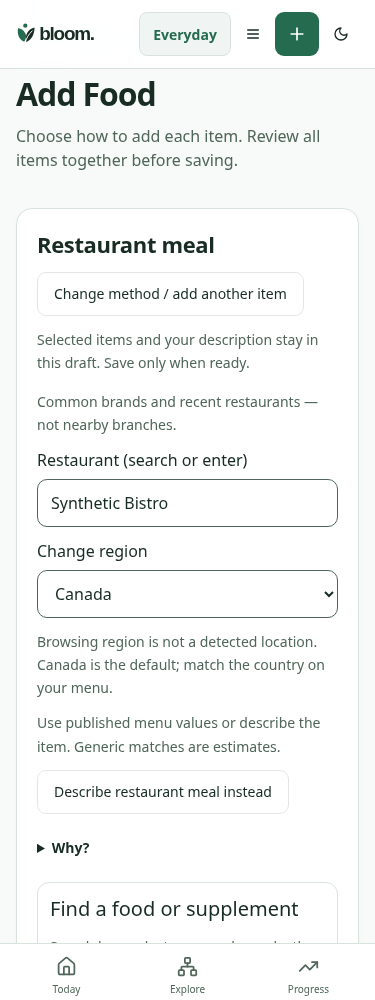
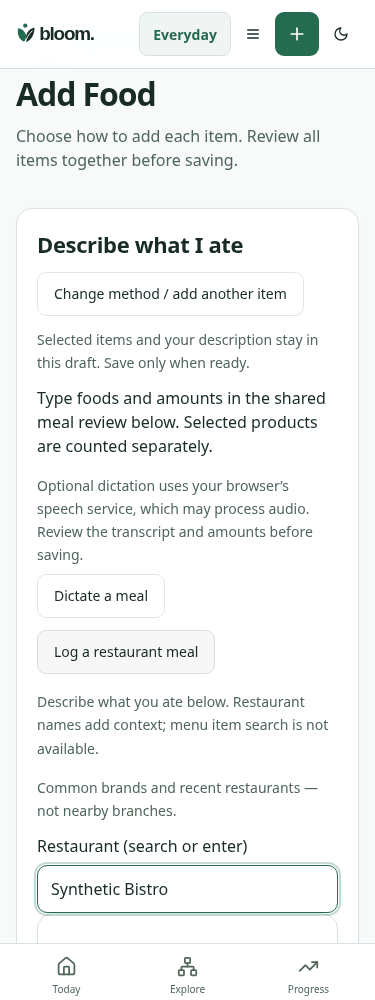
fix: keep unfinished restaurant menu search out of public food chooser

diff --git a/client/src/pages/LogMeal.tsx b/client/src/pages/LogMeal.tsx
@@ -3,7 +3,7 @@ import RestaurantEntry from "@/components/RestaurantEntry";
 import FoodCapture from "@/components/FoodCapture";
 import { useExperience } from "@/lib/experience";
 import { energyAmount, foodMass } from "@shared/nutrition-display";
-import {foodEntryMethods,availableFoodEntryMethods,parseAvailableFoodEntryMethod,type FoodEntryMethod} from "@shared/food-entry";
+import {foodEntryMethods,availableFoodEntryMethods,resolveFoodEntryRoute,type FoodEntryMethod} from "@shared/food-entry";
 import { SaveMealButton } from "@/components/SavedMeals";
 import ProductPicker from "@/components/ProductPicker";
 import { nutritionUpdateFeedback } from "@shared/nutrition-review";
@@ -67,25 +67,24 @@ export default function LogMeal() {
     Record<"bloating" | "energy" | "comfort" | "clarity", number | null>
   >({ bloating: null, energy: null, comfort: null, clarity: null });
   const [products, setProducts] = useState<Ingredient[]>([]);
-  const [method,setMethod]=useState<FoodEntryMethod|null>(parseAvailableFoodEntryMethod(params.get("method"))||(params.has("productQuery")?"search":params.has("description")||recipe||catalogueId?"describe":null));
+  const [method,setMethod]=useState<FoodEntryMethod|null>(resolveFoodEntryRoute(params.get("method"))||(params.has("productQuery")?"search":params.has("description")||recipe||catalogueId?"describe":null));
   const capabilities=useQuery<{foodEntry?:Partial<Record<FoodEntryMethod,boolean>>}>({queryKey:["/api/capabilities",user?.id],enabled:!!user,queryFn:async()=>(await apiRequest("GET","/api/capabilities")).json()});
   const availableMethods=availableFoodEntryMethods(capabilities.data?.foodEntry);
-  const [pickerVisited,setPickerVisited]=useState(params.has("productQuery")||["barcode","search","restaurant"].includes(params.get("method")||""));
+  const [pickerVisited,setPickerVisited]=useState(params.has("productQuery")||["barcode","search"].includes(params.get("method")||""));
   const [restaurant,setRestaurant]=useState(""),[market,setMarket]=useState("Canada"),[restaurantVisited,setRestaurantVisited]=useState(params.get("method")==="restaurant");
   const chooserHeading=useRef<HTMLHeadingElement>(null);
   const changeMethod=(requested:FoodEntryMethod|null)=>{
     const next=requested&&availableMethods.some(m=>m.id===requested)?requested:null;
-    if(next==="restaurant")setRestaurantVisited(true);
-    if(next&&["barcode","search","restaurant"].includes(next))setPickerVisited(true);
+    if(next&&["barcode","search"].includes(next))setPickerVisited(true);
     const url=new URL(window.location.href);if(next)url.searchParams.set("method",next);else url.searchParams.delete("method");
     window.history.pushState(null,"",url.pathname+url.search);setMethod(next);
     requestAnimationFrame(()=>chooserHeading.current?.focus());
   };
-  useEffect(()=>{const back=()=>{const next=parseAvailableFoodEntryMethod(new URLSearchParams(window.location.search).get("method"));setMethod(next);if(next&&["barcode","search","restaurant"].includes(next))setPickerVisited(true);};window.addEventListener("popstate",back);return()=>window.removeEventListener("popstate",back);},[]);
-  useEffect(()=>{const url=new URL(window.location.href);if(url.searchParams.get("method")==="photo"){url.searchParams.delete("method");window.history.replaceState(null,"",url.pathname+url.search);setMethod(null);requestAnimationFrame(()=>chooserHeading.current?.focus());}},[]);
-  const recentMeals=useQuery<Meal[]>({queryKey:["/api/meals",user?.id],enabled:!!user&&method==="restaurant"});
+  useEffect(()=>{const back=()=>{const next=resolveFoodEntryRoute(new URLSearchParams(window.location.search).get("method"));setMethod(next);if(next&&["barcode","search"].includes(next))setPickerVisited(true);};window.addEventListener("popstate",back);return()=>window.removeEventListener("popstate",back);},[]);
+  useEffect(()=>{const url=new URL(window.location.href);if(url.searchParams.get("method")==="restaurant"){url.searchParams.set("method","describe");window.history.replaceState(null,"",url.pathname+url.search);}else if(url.searchParams.get("method")==="photo"){url.searchParams.delete("method");window.history.replaceState(null,"",url.pathname+url.search);setMethod(null);requestAnimationFrame(()=>chooserHeading.current?.focus());}},[]);
+  const recentMeals=useQuery<Meal[]>({queryKey:["/api/meals",user?.id],enabled:!!user&&method==="describe"&&restaurantVisited});
   const recentRestaurants=(recentMeals.data||[]).flatMap(meal=>{const context=(meal.mealContext as any)?.restaurantContext;return typeof context?.restaurant==="string"&&typeof context?.market==="string"?[{restaurant:context.restaurant,market:context.market}]:[];});
-  const pickerActive=method==="barcode"||method==="search"||method==="restaurant";
+  const pickerActive=method==="barcode"||method==="search";
   const [savedMeal, setSavedMeal] = useState<Meal | null>(null);
   const { toast } = useToast();
   const saveAttempt = useRef<{ payload: string; key: string } | null>(null);
@@ -178,7 +177,7 @@ export default function LogMeal() {
         {!method&&<div className="grid gap-3 sm:grid-cols-2">{availableMethods.map(m=><Button className="h-auto whitespace-normal text-left block" type="button" variant="outline" key={m.id} onClick={()=>{setSavedMeal(null);changeMethod(m.id);}}><strong className="block">{m.label}</strong><span className="block text-sm font-normal">{m.description}</span></Button>)}</div>}
         <p className="panel-note">Selected items and your description stay in this draft. Save only when ready.</p>
         {method==="describe"&&<div className="space-y-3"><p>Type foods and amounts in the shared meal review below. Selected products are counted separately.</p><FoodCapture voiceOnly onDescription={text=>setDescription(current=>[current,text].filter(Boolean).join("; "))} onProduct={()=>{}}/></div>}
-        <div hidden={method!=="restaurant"} className="space-y-3"><RestaurantEntry recent={recentRestaurants} name={restaurant} region={market} onName={setRestaurant} onRegion={setMarket}/><p className="panel-note">Use published menu values or describe the item. Generic matches are estimates.</p><Button type="button" variant="outline" onClick={()=>changeMethod("describe")}>Describe restaurant meal instead</Button><details><summary>Why?</summary><p>Common brands and saved restaurant names do not verify menu nutrition, availability or allergens. Enter values from the menu as a private label or use a description; missing values stay unknown.</p></details></div>
+        {method==="describe"&&<div className="space-y-3"><Button type="button" variant="outline" aria-expanded={restaurantVisited} aria-controls="restaurant-context" onClick={()=>setRestaurantVisited(value=>!value)}>Log a restaurant meal</Button>{restaurantVisited&&<div id="restaurant-context" className="space-y-3"><p className="panel-note">Describe what you ate below. Restaurant names add context; menu item search is not available.</p><RestaurantEntry recent={recentRestaurants} name={restaurant} region={market} onName={setRestaurant} onRegion={setMarket}/><details><summary>Why?</summary><p>Names do not verify menu nutrition or allergens. Generic food matches are estimates. To use published nutrition, add it as a private label through Search foods; missing values stay unknown.</p></details></div>}</div>}
 
         {products.length>=10&&<p role="alert">This meal supports up to 10 labelled products. Save the meal or remove one before adding another.</p>}
         {pickerVisited&&<div hidden={!pickerActive}><ProductPicker active={pickerActive} showBarcode={method==="barcode"} pending={products.length>=10} onPick={i=>{setProducts(v=>v.length>=10?v:[...v,i]);changeMethod(null);}} initialQuery={productQuery||description.slice(0,120)} autoSearch={!!productQuery}/></div>}

diff --git a/tests/food-entry.test.ts b/tests/food-entry.test.ts
@@ -1,5 +1,5 @@
 import test from 'node:test';import assert from 'node:assert/strict';import express from 'express';
-import {foodEntryMethods,parseFoodEntryMethod,availableFoodEntryMethods,parseAvailableFoodEntryMethod} from '../shared/food-entry';import {mealContextSchema} from '../shared/meal-intelligence';
+import {foodEntryMethods,parseFoodEntryMethod,availableFoodEntryMethods,parseAvailableFoodEntryMethod,resolveFoodEntryRoute} from '../shared/food-entry';import {mealContextSchema} from '../shared/meal-intelligence';
 import {capabilityApproval,restrictedCapabilityAllowed,requireRestrictedCapability} from '../server/capability-policy';
 test('five food methods share strict route identifiers and retain optional user-entered restaurant context',()=>{
  assert.equal(foodEntryMethods.length,5);assert.equal(new Set(foodEntryMethods.map(m=>m.id)).size,5);
@@ -15,4 +15,4 @@ test('direct restricted API access rejects client-forged tester flags before exe
  const server=app.listen(0,'127.0.0.1');await new Promise<void>(r=>server.on('listening',r));try{const response=await fetch('http://127.0.0.1:'+(server.address() as any).port+'/photo',{method:'POST',headers:{'content-type':'application/json','x-internal-tester':'true'},body:JSON.stringify({experimental:true,consent:true,approved:true})});assert.equal(response.status,403);assert.equal((await response.json()).code,'CAPABILITY_UNAVAILABLE');assert.equal(calls,0);}finally{server.closeAllConnections();await new Promise<void>(r=>server.close(()=>r()));}
 });
 
-test('unfinished photo workflow is absent even with a forged ready flag and direct route falls back safely',()=>{assert.equal(availableFoodEntryMethods().length,4);assert.equal(availableFoodEntryMethods({photo:true}).some(method=>method.id==='photo'),false);assert.equal(parseAvailableFoodEntryMethod('photo'),null);assert.equal(parseAvailableFoodEntryMethod('barcode'),'barcode');assert.equal(availableFoodEntryMethods({search:false}).some(method=>method.id==='search'),false);});
+test('unfinished photo and menu workflows are absent even with a forged ready flag and direct route falls back safely',()=>{assert.equal(availableFoodEntryMethods().length,3);assert.equal(availableFoodEntryMethods({photo:true}).some(method=>method.id==='photo'),false);assert.equal(parseAvailableFoodEntryMethod('photo'),null);assert.equal(parseAvailableFoodEntryMethod('restaurant',{restaurant:true}),null);assert.equal(resolveFoodEntryRoute('restaurant'),'describe');assert.equal(resolveFoodEntryRoute('unknown'),null);assert.equal(parseAvailableFoodEntryMethod('barcode'),'barcode');assert.equal(availableFoodEntryMethods({search:false}).some(method=>method.id==='search'),false);});

diff --git a/shared/food-entry.ts b/shared/food-entry.ts
@@ -1,7 +1,7 @@
 export const foodEntryMethods=[
   {id:"barcode",label:"Scan barcode",description:"Scan a package or enter its number."},
   {id:"search",label:"Search foods",description:"Find generic foods, brands or your saved labels."},
-  {id:"restaurant",label:"Restaurant meal",description:"Choose a name, then add menu values or describe the item."},
+  {id:"restaurant",label:"Search restaurants",description:"Find source-backed menu items and portions."},
   {id:"photo",label:"Take/upload photo",description:"Check available photo entry and manual alternatives."},
   {id:"describe",label:"Describe what I ate",description:"Type foods and amounts for review."},
 ] as const;
@@ -9,6 +9,9 @@ export type FoodEntryMethod=typeof foodEntryMethods[number]["id"];
 export function parseFoodEntryMethod(value:string|null):FoodEntryMethod|null{return foodEntryMethods.some(m=>m.id===value)?value as FoodEntryMethod:null;}
 
 /** Shipped implementation readiness; a role flag cannot create an unfinished workflow. */
-export const foodEntryImplementationReady:Readonly<Record<FoodEntryMethod,boolean>>={barcode:true,search:true,restaurant:true,photo:false,describe:true};
+export const foodEntryImplementationReady:Readonly<Record<FoodEntryMethod,boolean>>={barcode:true,search:true,restaurant:false,photo:false,describe:true};
 export function availableFoodEntryMethods(server?:Partial<Record<FoodEntryMethod,boolean>>){return foodEntryMethods.filter(method=>foodEntryImplementationReady[method.id]&&(server?.[method.id]??true));}
 export function parseAvailableFoodEntryMethod(value:string|null,server?:Partial<Record<FoodEntryMethod,boolean>>):FoodEntryMethod|null {return availableFoodEntryMethods(server).some(method=>method.id===value)?value as FoodEntryMethod:null;}
+
+/** Old restaurant links retain their manual draft; they never imply a menu catalogue. */
+export function resolveFoodEntryRoute(value:string|null):FoodEntryMethod|null{return value==="restaurant"?"describe":parseAvailableFoodEntryMethod(value);}

diff --git a/BACKLOG.md b/BACKLOG.md
@@ -14,7 +14,7 @@ This execution ledger follows the owner's overnight directive. Scope and priorit
 | OPS-702-USDA | P0 | Shared source request allowance across search/detail/meal lookup | IMPLEMENTED_AND_TESTED | 213 tests/types/build; two-replica database boundary/reset/cache/fallback tests. Published 80c3aad; CI 40074216938 passed on its Architect-doc descendant. No monetary tariff invented. Full AI spend/circuits/analytics remain OPEN. |
 | GATE-701-STATE / 91f16c8 | P0 | One Show development features control and orthogonal readiness/release label contract | IMPLEMENTED_AND_TESTED | 217 tests/types/build and updated internal off/on/revocation/Appearance browser. Actual internal module composition and full inventory remain IN_PROGRESS. |
 | OPS-702 | P0 | Shared per-user/capability limits, atomic AI spend reservations and recovery verification | OPEN | Existing shared rate budgets remain. New daily/monthly money metering and recovery acceptance are not claimed. No invented tariffs or paid services. |
-| FOOD-508 / INT-REST / UT-REST / MKT-REST | P0 | Common-brand/recent restaurant combobox and explicit region/locality fallbacks | IMPLEMENTED_AND_TESTED | 215 tests/types/build; keyboard McDonald's selection, market separation, no GPS requests and canonical context/save browser regression passed. Actual menu/places sources remain externally gated. |
+| FOOD-508 / INT-REST / UT-REST / MKT-REST | P0 | Common-brand/recent restaurant context and full source-backed menu search | MANUAL_CONTEXT_IMPLEMENTED; MENU_BLOCKED_USER_INPUT | 215 tests/types/build; keyboard McDonald's selection, market separation, no GPS requests and canonical context/save browser regression passed. Actual menu/places sources remain externally gated. |
 | COPY-1301 / UT-COPY / MKT-COPY / MKT-LAYOUT | P0 | Task-first concise copy and rendered layout audit | IN_PROGRESS | Applied to active Add Food/restaurant surface with screenshots and overflow checks. Whole-app sweep remains actionable; do not claim source suspicions are proven layout defects. |
 | FOOD-509 / 7af47d5 / MKT-REG-1210–1213 | P0 | Hide unfinished public food and connection placeholders; preserve real manual operations | IMPLEMENTED_AND_TESTED | 216 tests/types/build and direct-photo-link/draft/hidden-control/browser regression. Four working chooser methods; no image/GPS calls. Broader capability inventory remains OPEN. |
 | PRIV-101 | P0 | Combined account-record export | VERIFIED_PREVIEW | `40147fb`; CI 40057861646 passed, Render live. Read-only account snapshot; explicit optional-storage state; no passwords/session material/internal paths. |
@@ -30,3 +30,6 @@ This execution ledger follows the owner's overnight directive. Scope and priorit
 Execution resources recovered after the stated reset time on 2026-10-24. Normal approval succeeded; resume autonomous implementation. Earlier rejection remains recorded in the development log.
 
 | OPS-702-RECOVERY | P0 | Isolated encrypted snapshot/key recovery regression | IMPLEMENTED_AND_TESTED (synthetic only) | 218 tests and TypeScript passed. Restored original zero/null/units, account isolation, two historical keys, missing/wrong-key failure and idempotent migration. Old snapshot restores deleted records: deletion replay remains required. Managed recovery is separately blocked on operator inputs below. |
+
+| FOOD-510 / 8cb808e | P0 | Remove dedicated incomplete menu search; retain manual restaurant entry inside Describe | IMPLEMENTED_AND_TESTED | 218 tests, TypeScript, production build and synthetic rendered save/totals journey passed. Three working chooser options; old restaurant deep links open manual Describe with text retained. No fabricated menu catalogue. |
+| MKT-MOB-1401–1405 | P0/P1 | Screenshot-backed Today journal empty state, reflow and safe-area validation | OPEN | New Architect 9cba721 owner screenshot handoff. Inspect current Dashboard and reproduce before changes. |

diff --git a/BLOCKED_USER_INPUT.md b/BLOCKED_USER_INPUT.md
@@ -47,3 +47,19 @@ No noncritical question should pause other approved work. Keep safe defaults, ne
 - Recommended default: Option 2 until target and policy are explicit; continue in-memory synthetic recovery, with no real health records or key material in artifacts.
 - Impact: Blocks managed RPO/RTO, backup lifecycle and deletion-after-restore sign-off; does not block other v0.5 engineering.
 - Read-only observations (2026-10-24): Neon project fancy-smoke-82120373 reports history_retention_seconds=21600; snapshot listing was empty. This does not mean PITR is unavailable or prove a recovery guarantee. PR-1 branch is schema-only. No snapshots, restores, configuration changes or live data reads were performed. Local .neon link absent; actual Render branch binding unverified.
+
+## REST-ARCH / FOOD-508 — source-backed Canadian menu catalogue
+
+- Status: BLOCKED_USER_INPUT for actual menu activation. Manual description remains usable. Owner's live no-menu acceptance overrides any implication of full restaurant-search completion.
+- Exact question: Which licensed/rights-cleared menu source and versioned Canadian chain records are approved for item, size, modifiers, provenance and nutrient display?
+- Choices: (1) Supply an approved catalogue/licence and provider configuration via authorized secret management; (2) keep manual restaurant descriptions and defer real menu search.
+- Recommended default: Option 2. Do not scrape or invent official McDonald's/Tim Hortons Canadian records.
+- Impact: Blocks menu items and real-source restaurant search/save acceptance; does not block brand context or manual nutrition logging. Dedicated unfinished menu choice is removed from ordinary chooser.
+
+## GATE-701 / tester1 — real internal access prerequisites
+
+- Status: BLOCKED_USER_INPUT for live provisioning; synthetic policy/UI checks pass. No real reviewer grant is claimed.
+- Exact question: What reviewed isolated-synthetic environment/dataset boundary, authenticated reviewer account ID, territory, purpose, expiry and low-risk capability scope are approved for this owner test?
+- Choices: Verify the existing preview meets those requirements and supply audited provisioning inputs; or retain no live grants and use synthetic harness pending an appropriate environment.
+- Recommended default: Preserve fail-closed grants; do not guess identity from username, enable public self-enrolment, or label an exposed service isolated without evidence.
+- Impact: Real tester1 toggle remains unavailable; internal module engineering proceeds with fixtures. Migration/recovery approval and separate capability clearances remain required.

diff --git a/DEVELOPMENT_LOG.md b/DEVELOPMENT_LOG.md
@@ -65,3 +65,11 @@ Preserved the new 91f16c8 handoff. One internal-only Show development features c
 - Explicitly demonstrates deletion resurrection from an older snapshot; managed restore must include separately reviewed erasure reconciliation before activation. This test is not a Neon/PITR, full account restore, vendor erasure or operational readiness claim. No live health data or durable key artifact.
 - TypeScript and all 218 tests passed. Read-only Neon metadata audit recorded separately in BLOCKED_USER_INPUT.md; no cloud data/config mutations, restore, new service or charges. Managed target/policy/secret recovery remain external inputs.
 - Previous published b859fac verified: CI 40075554046 success; Render dep-dbe65bcs728c73c8a6l0 live. Actual public Kit Kat source lookup returned 20 results at 07:49:13 UTC (800ms). Exact hosted SKU/save acceptance remains open.
+
+## Owner restaurant acceptance failure corrected
+
+Architect 8cb808e records no menu items after brand selection. Removed dedicated ordinary restaurant-search choice and moved optional restaurant context into Describe under Log a restaurant meal. No fake menu records or source activation. Legacy restaurant links preserve descriptions and open the manual context. Synthetic browser verifies three chooser paths, absence of unfinished controls, keyboard brand/market selection, no GPS, camera-denied/manual fallback, selected product plus described food in one save and daily calories. Full catalogue blocked on source rights; record is distinct from working manual context.
+
+Recovery regression published dd59a6beb43f512391e54a21b81a8f91ac33083f after preserving Architect 11cf8f7/8cb808e. Exact CI/deploy pending at publication.
+
+Restaurant readiness correction: 218 tests, TypeScript and production build passed; synthetic rendered journey passed at mobile through desktop. Actual menu-source/live acceptance remains blocked, not inferred from fixture success.

diff --git a/docs/review/restaurant-entry-20261024/README.md b/docs/review/restaurant-entry-20261024/README.md
@@ -7,3 +7,7 @@ The two mobile captures are synthetic common-brand and unavailable-nearby states
 215 full tests, types and production build passed. A flaky lab test was corrected: random base64 can contain short plaintext-like substrings; encryption is now tested by allowed envelope fields, original value round trip and wrong-account authentication rejection. No encryption protection or CI gate was weakened. Live restaurant data, saved country-preference integration where absent, device/VoiceOver and independent acceptance remain separate.
 
 Current readiness update: unfinished Nearby and photo controls are hidden rather than offered as dead ends. `common-brand-mobile.png` reflects the current working restaurant entry; `nearby-unavailable-mobile.png` is historical evidence of the superseded design and is not current acceptance. Current copy leads with the task and offers published-value/description entry without company setup or approval jargon. 216 tests/build and the updated browser journey passed.
+
+## Owner acceptance correction — manual fallback
+
+Owner selecting a brand without menu items failed the intended menu-search acceptance (Architect 8cb808e). The dedicated restaurant method is now hidden. Describe contains an optional **Log a restaurant meal** action, explicit manual description and a visible no-menu-search statement. Legacy restaurant deep links resolve to Describe with text retained. Brand/market context, keyboard suggestions, selected products and one canonical save still work. This is not completed restaurant menu search. Current common-brand capture shows the manual fallback; historical earlier captures are superseded.

diff --git a/NEXT_ACTIONS.md b/NEXT_ACTIONS.md
@@ -17,3 +17,5 @@ Temporary baseline worktree `/tmp/bloom-account-before` is detached at `75a598b`
 Internal preference setup, when genuinely approved: environment must explicitly be `isolated-synthetic`, territory must match a unique reviewed server grant, grant must include ID/expiry/review reference and bloom.dev.preview. Apply additive migration only to the approved isolated environment before provisioning. Default empty/kill switch blocks eligibility. No current restricted service is cleared by preference alone. Do not put real IDs or credentials in source. API tests and reviewer fixtures are not live internal-access acceptance.
 
 Recovery: tests/synthetic-recovery.test.ts uses actual in-memory snapshots, not managed backup acceptance. Old snapshots restore deleted records; deletion reconciliation remains open. Managed target/policy/historical secret-store recovery require recorded operator inputs. Next independent slice: audit and gate actual optional OpenAI callsites without disabling deterministic/curated flows, then continue full capability inventory and cost controls. No external AI enablement without atomic budget/review prerequisites.
+
+Latest owner corrections: dedicated restaurant menu search hidden; manual Log a restaurant meal is inside Describe. Three public chooser methods. Restaurant/provider approval and tester1 isolated reviewed provisioning recorded in BLOCKED_USER_INPUT. Next P0 source-backed defect is Today mobile journal duplicate empty states/CTA and heading reflow (9cba721); render baseline before editing.
